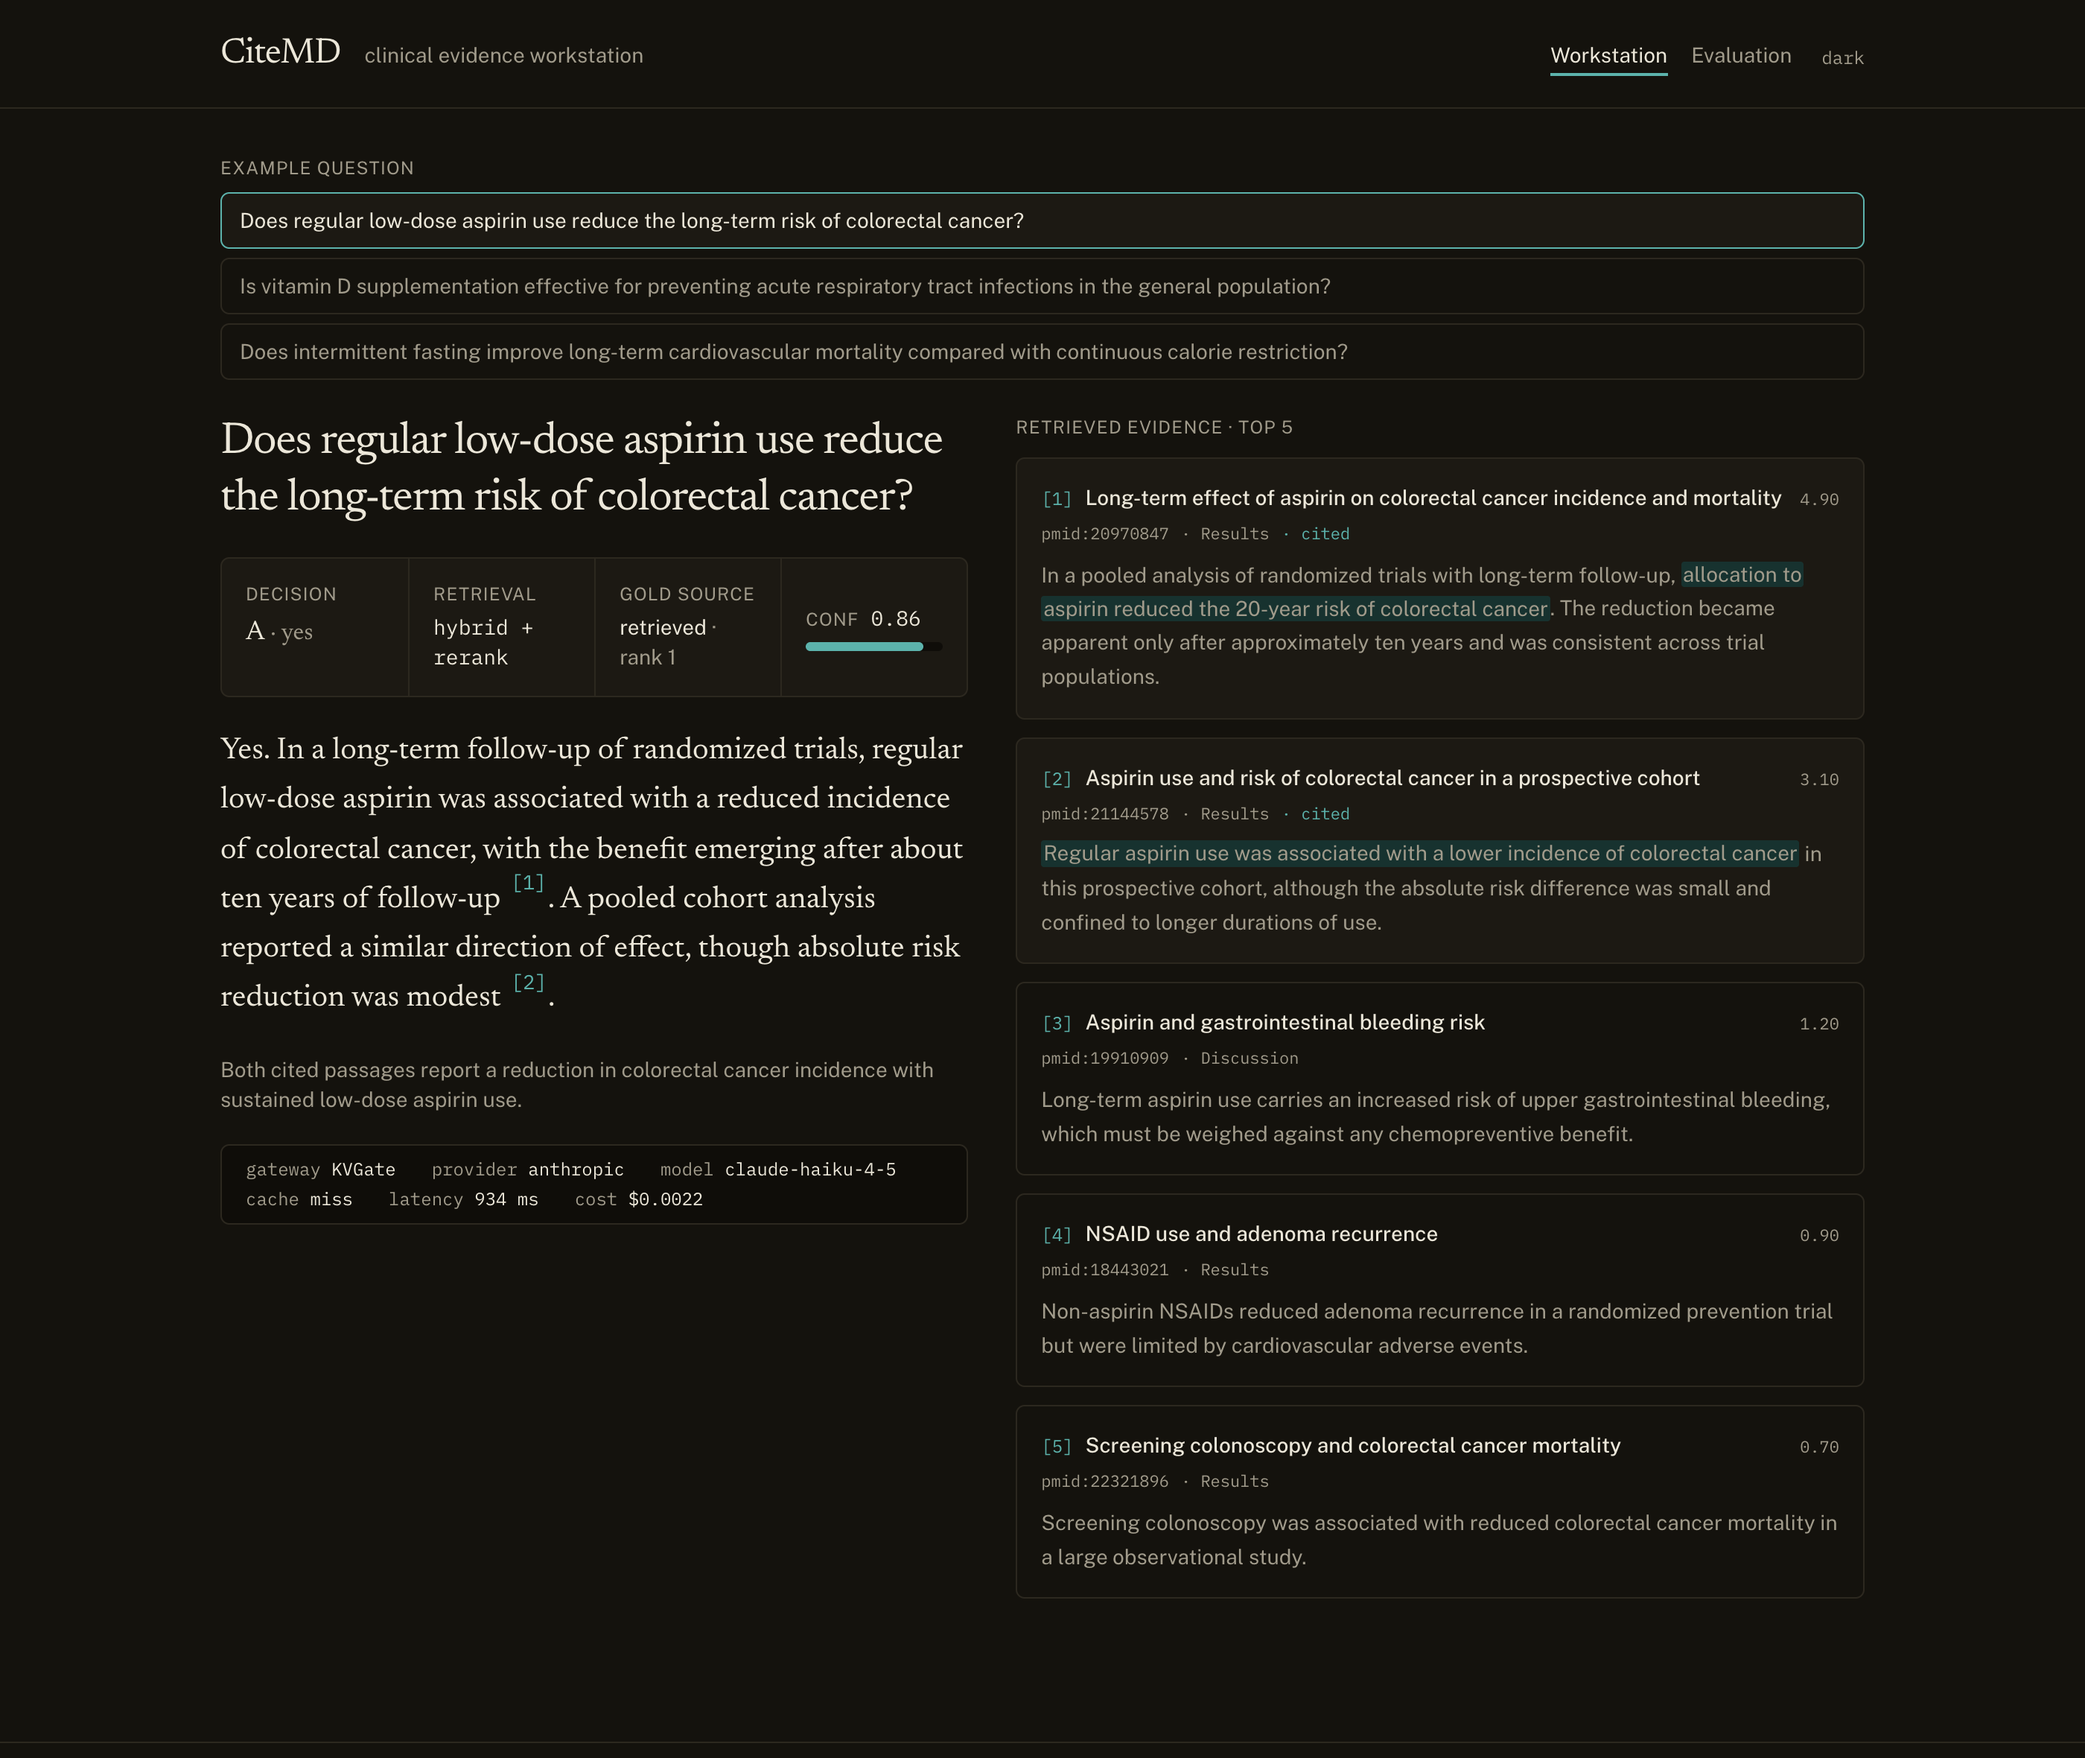
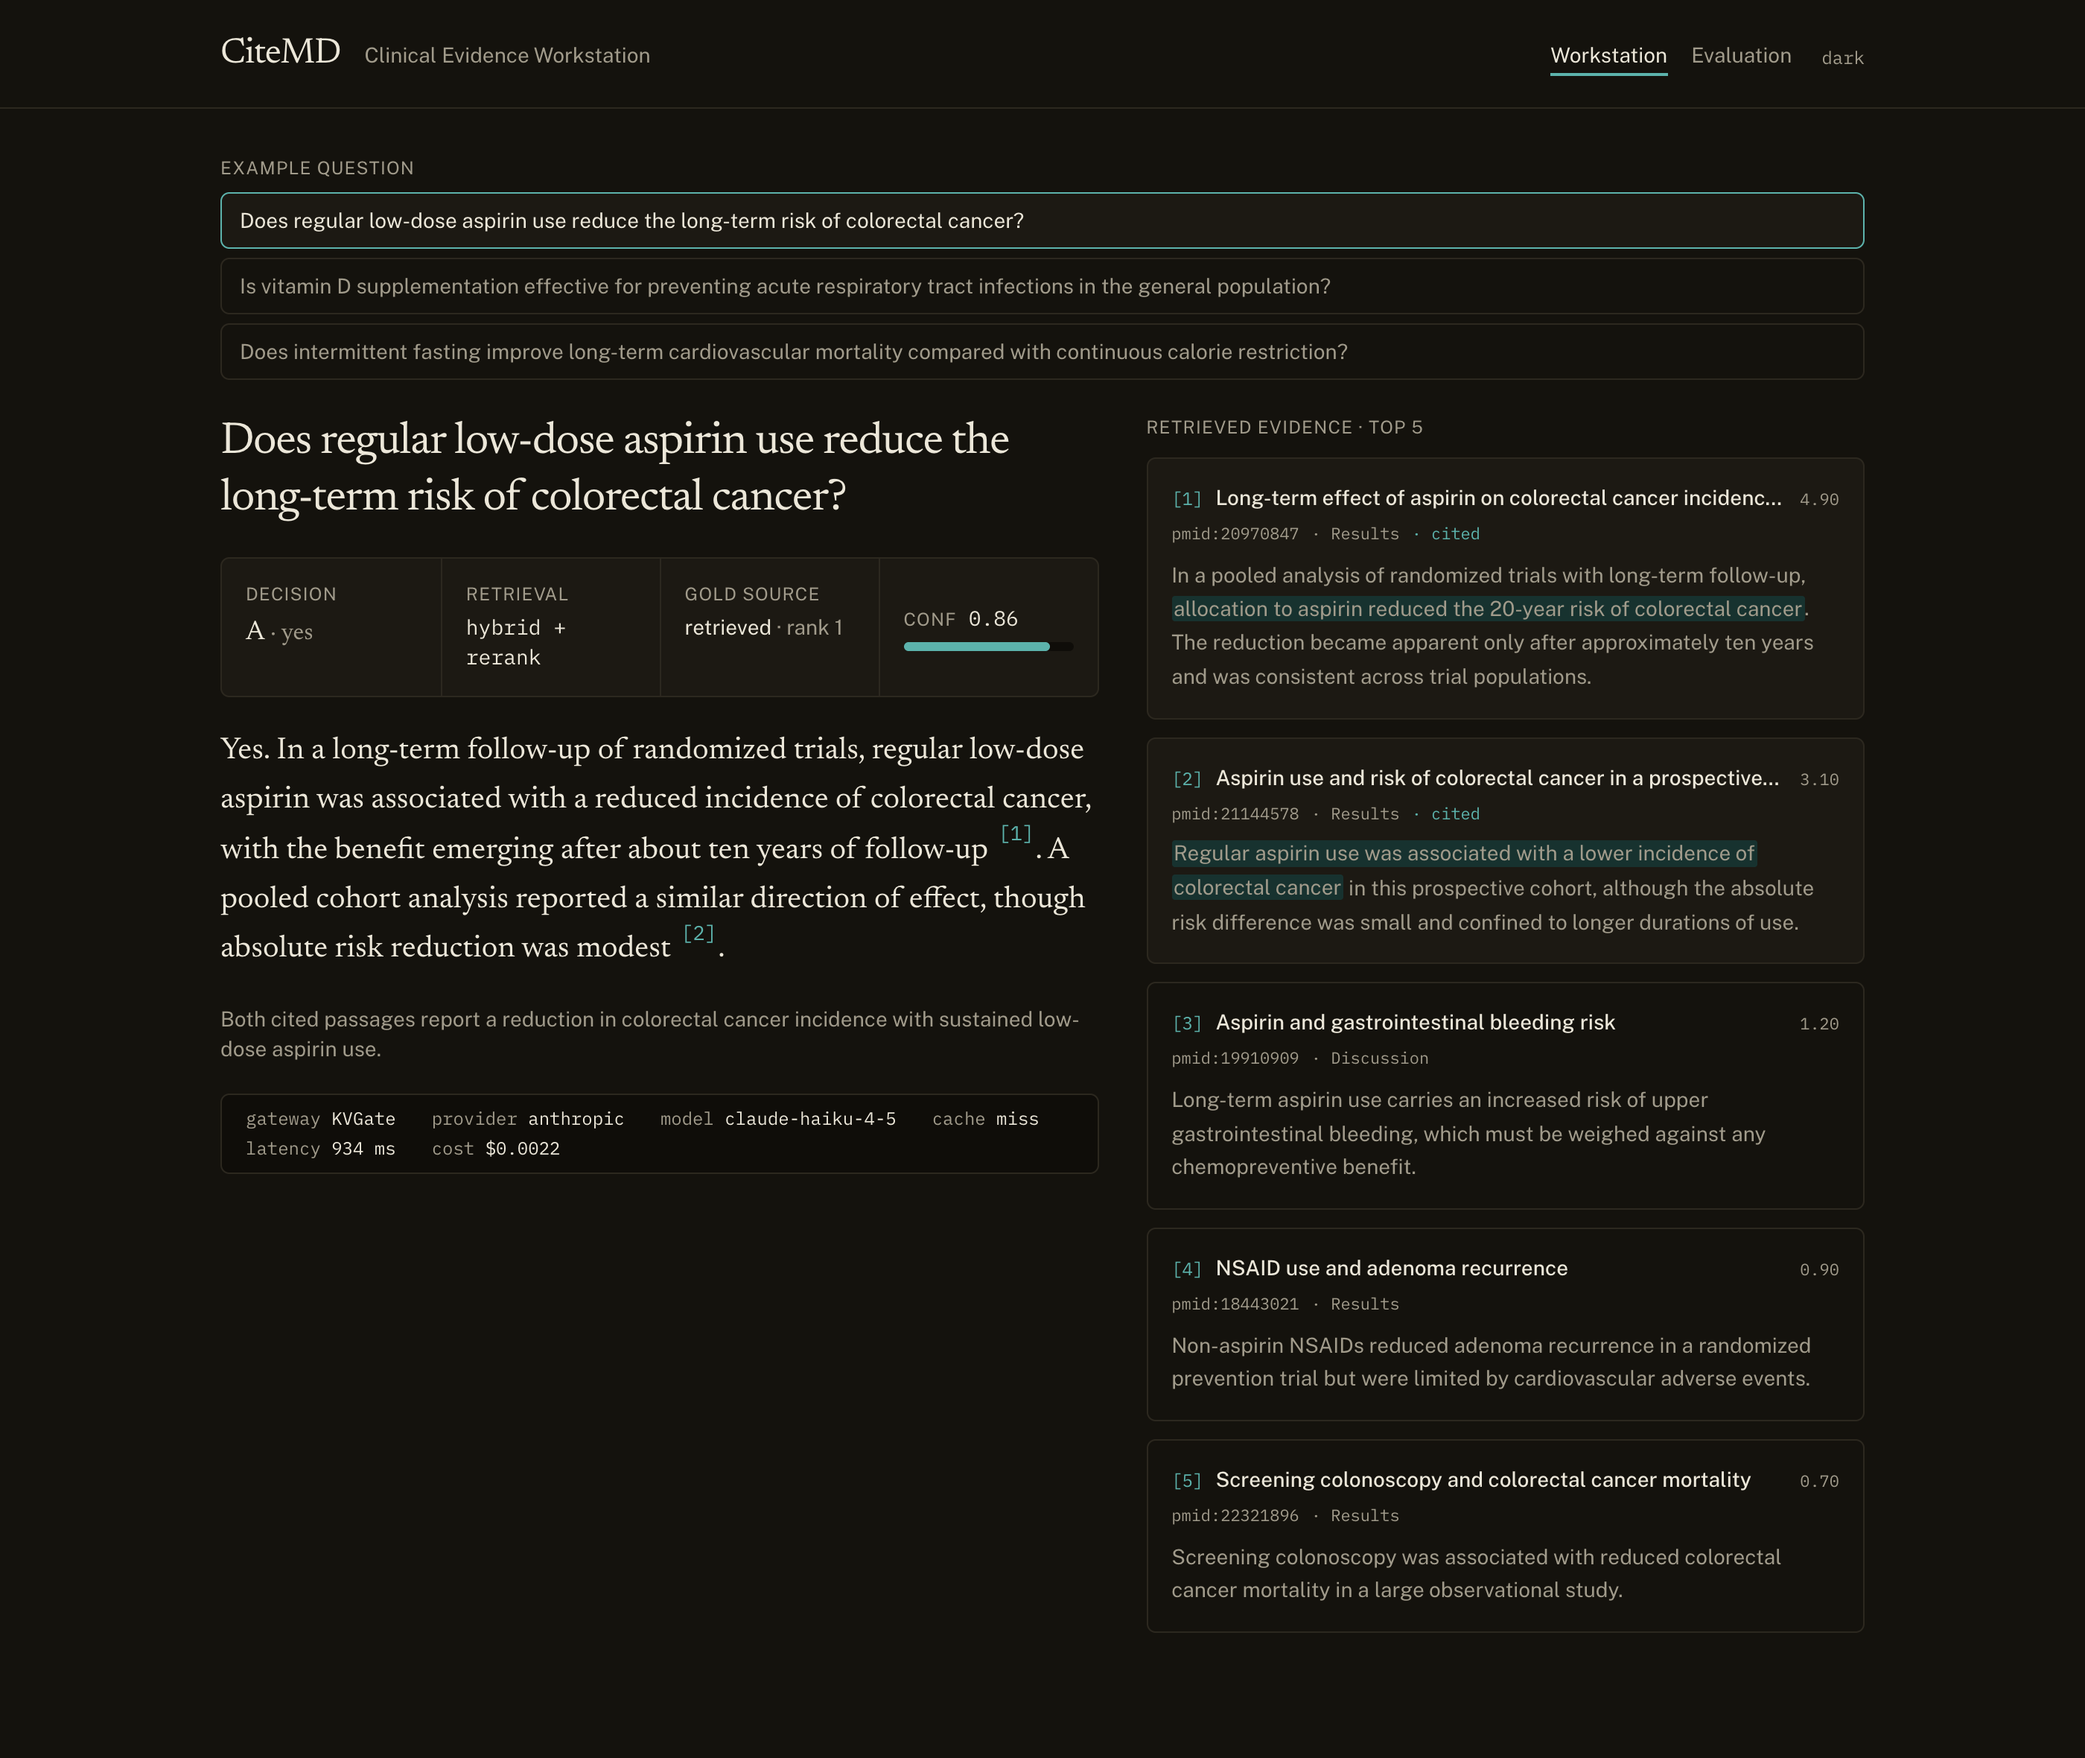
Frontend: stable two-column layout and title-case tagline
- Workstation grid uses minmax(0,fr) tracks with min-w-0 columns so the evidence
  column no longer resizes with answer length. All three example questions now
  render at the same 590/482 column ratio (verified).
- Tagline to title case: Clinical Evidence Workstation.
- Refreshed screenshots.

diff --git a/web/components/workstation.tsx b/web/components/workstation.tsx
@@ -207,9 +207,11 @@ export function Workstation({ answers }: { answers: AnswerRecord[] }) {
         </div>
       </div>
 
-      <div className="grid lg:grid-cols-[1.1fr_0.9fr] gap-8">
-        <section className="space-y-5">
-          <h1 className="font-serif text-3xl leading-tight tracking-tight">{a.question}</h1>
+      <div className="grid lg:grid-cols-[minmax(0,1.1fr)_minmax(0,0.9fr)] gap-8 items-start">
+        <section className="min-w-0 space-y-5">
+          <h1 className="font-serif text-3xl leading-tight tracking-tight break-words">
+            {a.question}
+          </h1>
           <DecisionBar a={a} />
           {a.abstained ? (
             <div className="border-l-2 pl-4 py-1" style={{ borderColor: "var(--warm)" }}>
@@ -228,7 +230,7 @@ export function Workstation({ answers }: { answers: AnswerRecord[] }) {
           <KvgateStrip a={a} />
         </section>
 
-        <section>
+        <section className="min-w-0">
           <div className="text-xs uppercase tracking-wider text-muted mb-3">
             retrieved evidence · top {a.contexts.length}
           </div>

diff --git a/web/components/shell.tsx b/web/components/shell.tsx
@@ -49,7 +49,7 @@ export function Shell({
           <div className="flex items-baseline gap-4">
             <span className="font-serif text-2xl tracking-tight">CiteMD</span>
             <span className="hidden sm:inline text-sm text-muted">
-              clinical evidence workstation
+              Clinical Evidence Workstation
             </span>
           </div>
           <div className="flex items-center gap-5">

diff --git a/web/app/layout.tsx b/web/app/layout.tsx
@@ -21,7 +21,7 @@ const mono = IBM_Plex_Mono({
 });
 
 export const metadata: Metadata = {
-  title: "CiteMD - clinical evidence workstation",
+  title: "CiteMD - Clinical Evidence Workstation",
   description:
     "A clinical-evidence RAG that answers with grounded citations and abstains when the evidence is weak. Research and evaluation only, not for clinical use.",
 };
